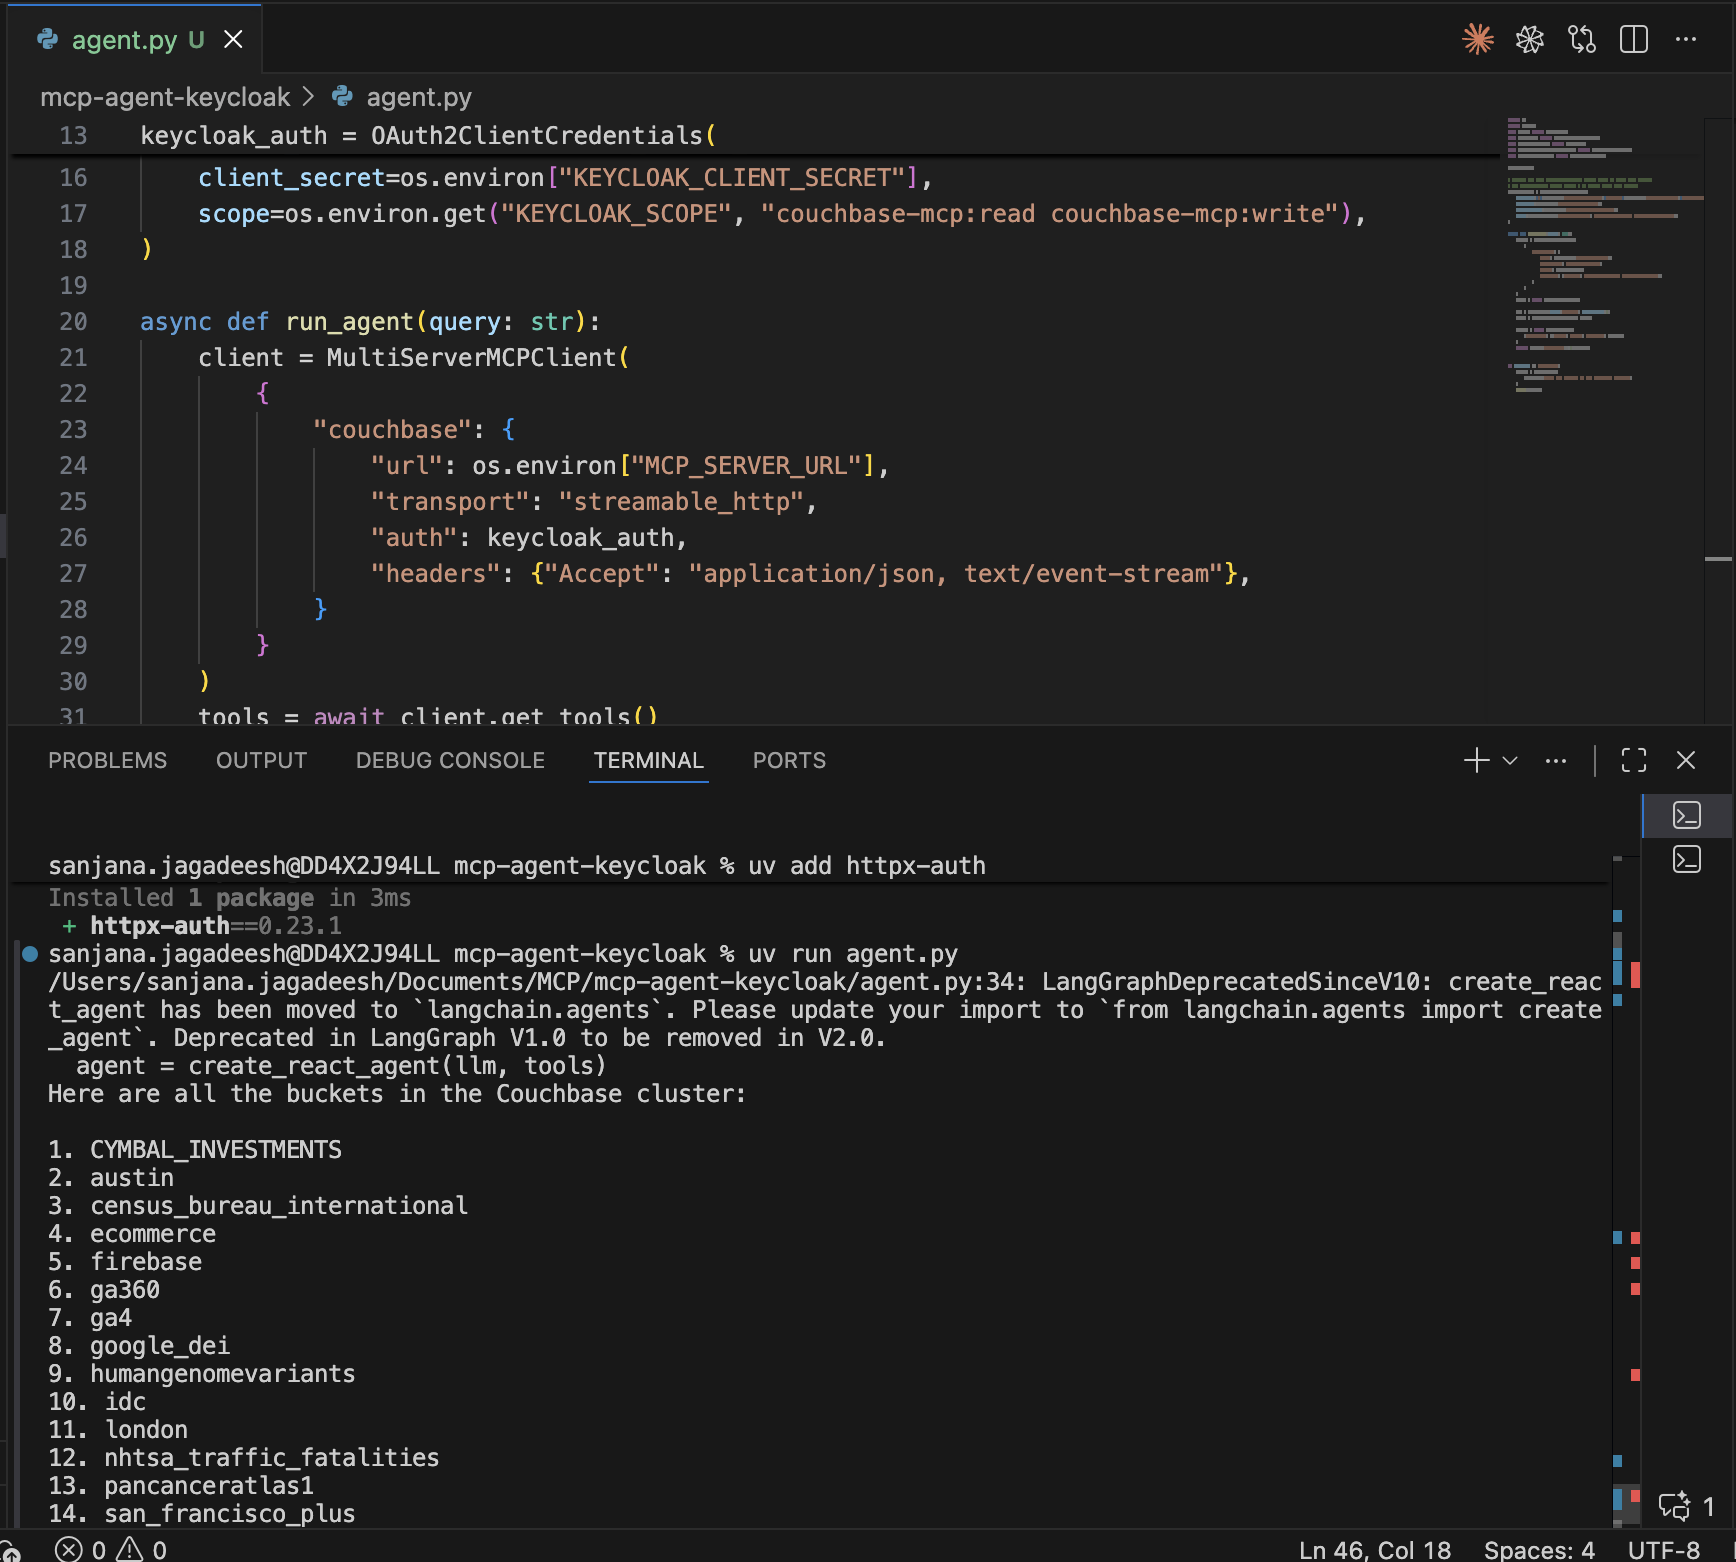
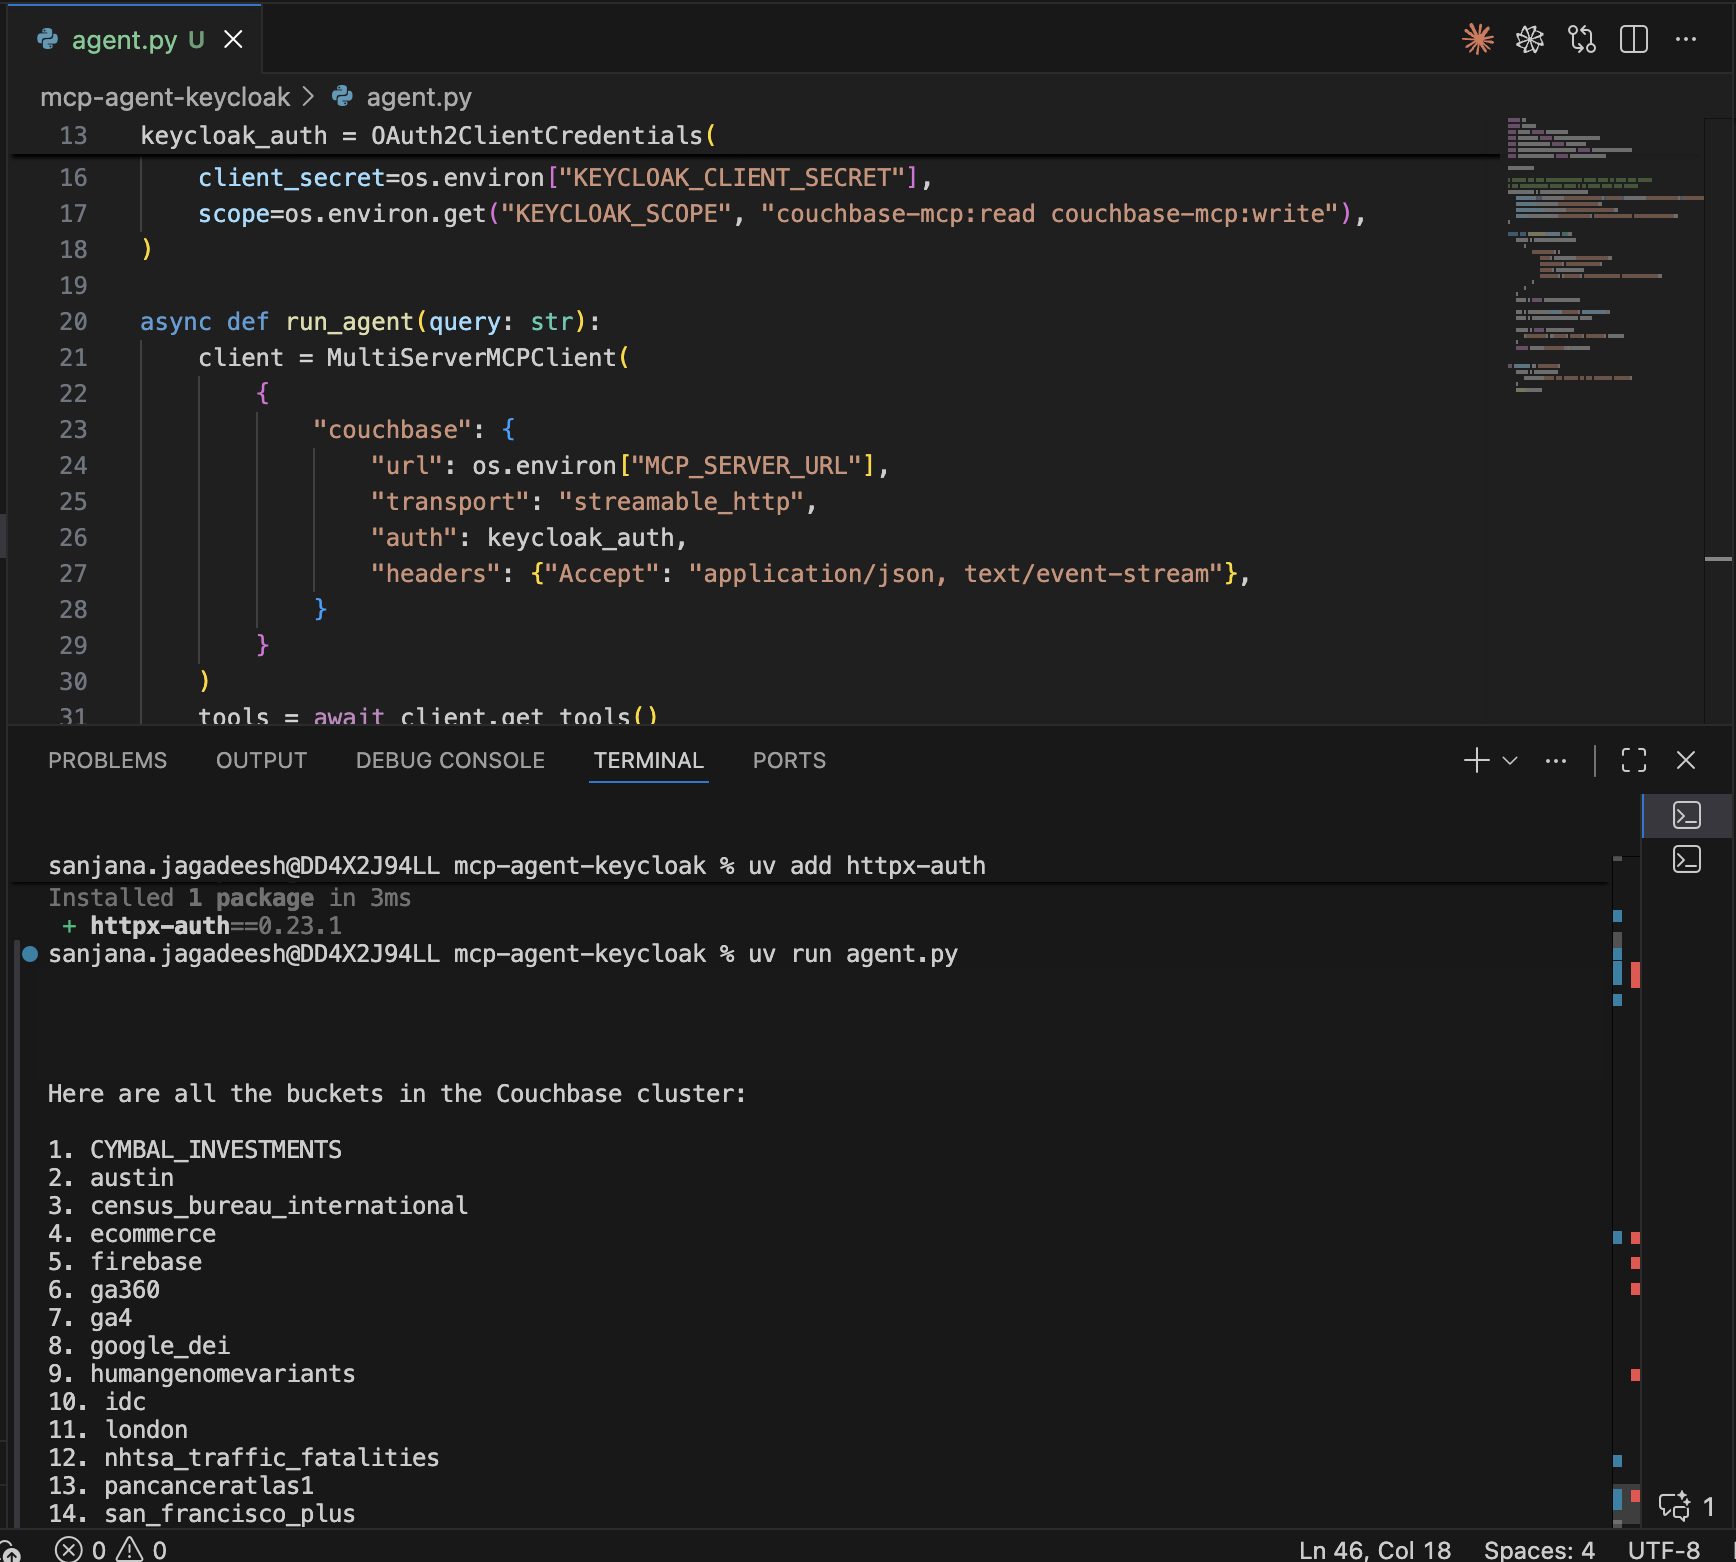
resolve comments

Changed region(s): [[0.0311, 0.6146, 0.9332, 0.7068]]

diff --git a/mcp_auth_keycloak_nondcr_and_dcr/frontmatter.md b/mcp_auth_keycloak_nondcr_and_dcr/frontmatter.md
@@ -1,6 +1,6 @@
 ---
 # frontmatter
-path: "/mcp-server/oauth/keycloak-nondcr-and-dcr-setup"
+path: "/mcp-server-oauth/keycloak-nondcr-and-dcr-setup"
 title: "Securing Couchbase MCP Server with Keycloak — Non-DCR and DCR Flows"
 short_title: "Couchbase MCP Server OAuth with Keycloak - Non-DCR and DCR"
 description:
@@ -10,7 +10,7 @@ description:
 content_type: tutorial
 filter: mcp
 technology:
-  - model context protocol (mcp)
+  - Model Context Protocol (MCP)
 tags:
   - Model Context Protocol (MCP)
 sdk_language:

diff --git a/mcp_auth_keycloak_m2m/frontmatter.md b/mcp_auth_keycloak_m2m/frontmatter.md
@@ -10,7 +10,7 @@ description:
 content_type: tutorial
 filter: mcp
 technology:
-  - model context protocol (mcp)
+  - Model Context Protocol (MCP)
 tags:
   - Model Context Protocol (MCP)
 sdk_language:
